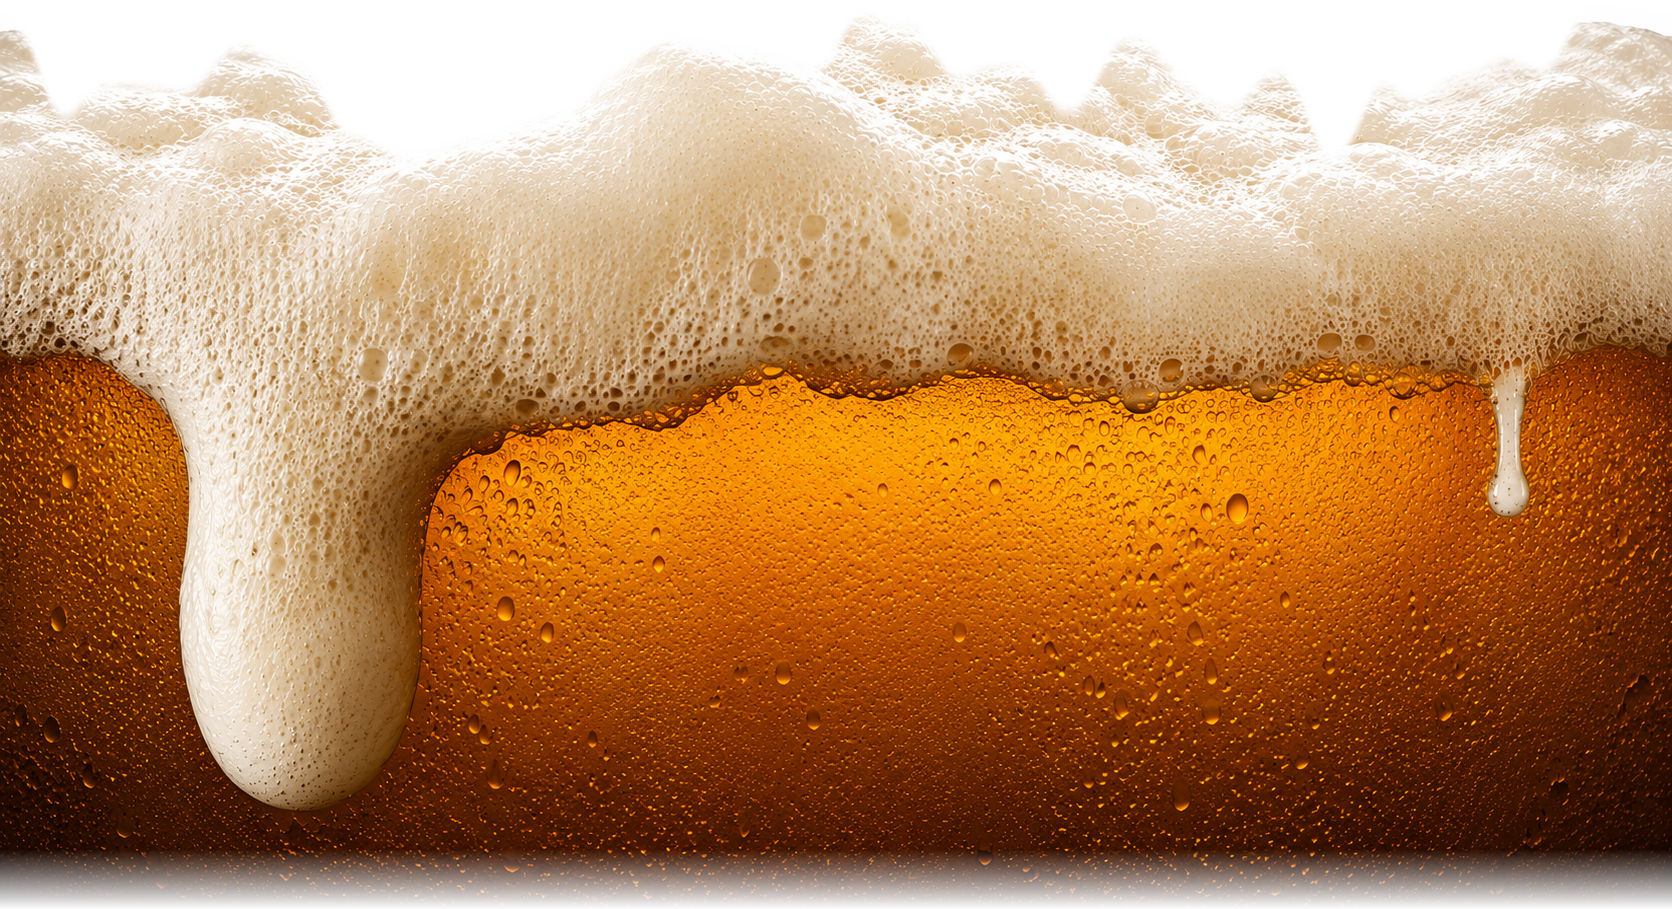
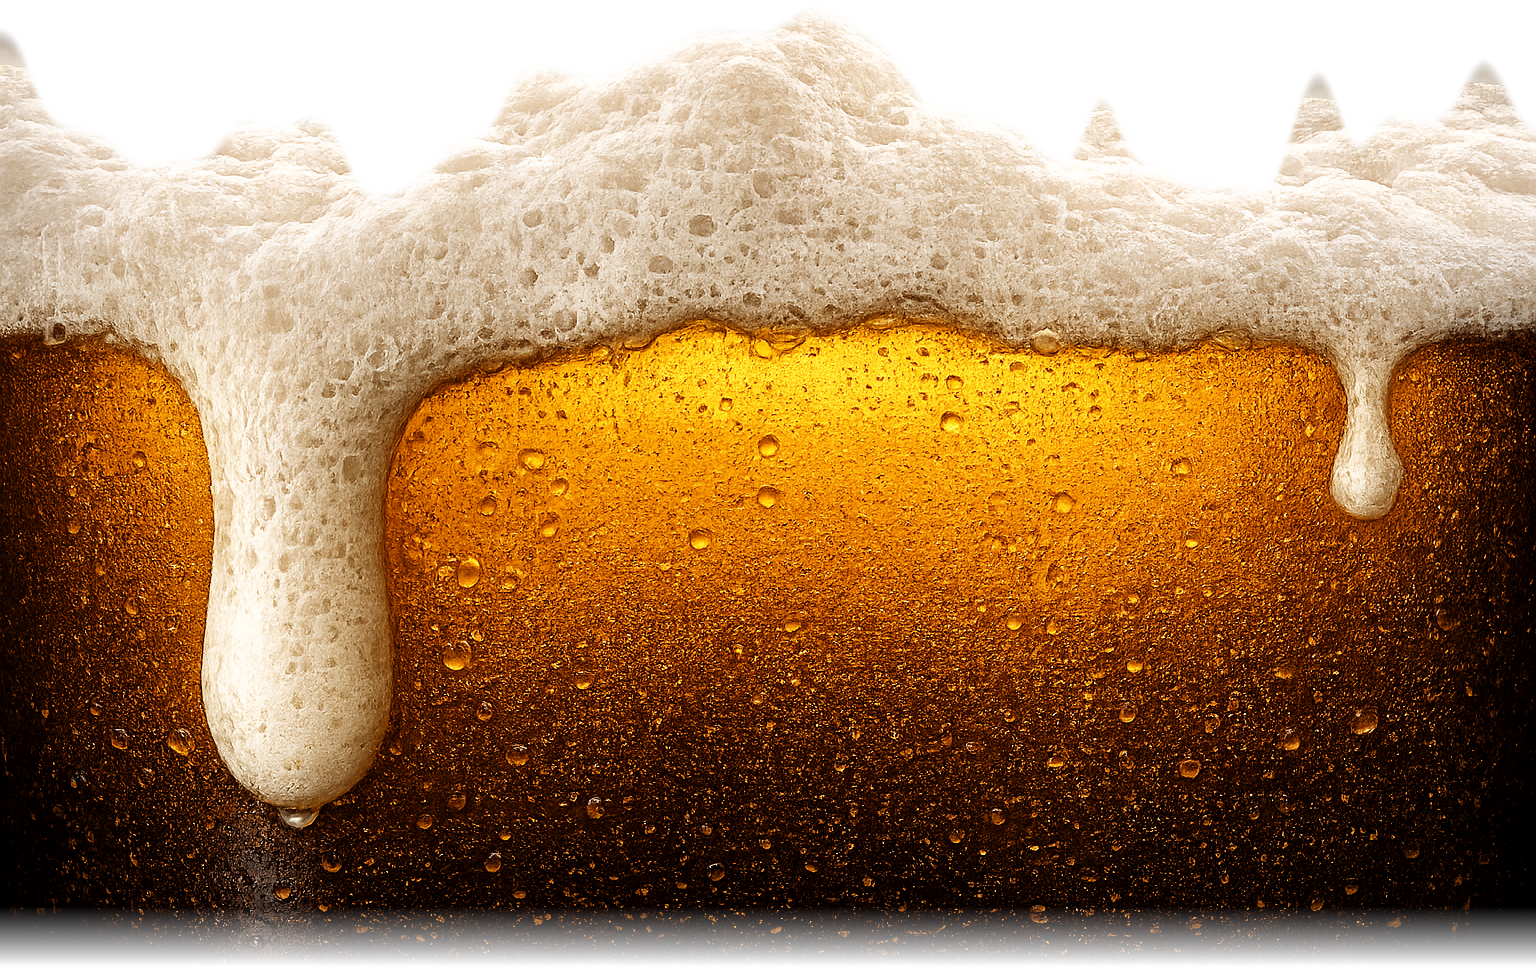
Footer: use dedicated Fótur Ölvis photos (landscape for desktop, portrait for mobile via <picture>); foam pours only slightly over the section above, visit info stays visible

diff --git a/styles.css b/styles.css
@@ -762,12 +762,14 @@ body.menu-open { overflow: hidden; }
 /* Footer — the beer photo IS the footer; text sits in the beer.
    The footer overlaps the section above with a transparent top, so the foam's
    natural contour pours slightly over the previous content with no hard seam.
-   Image is 1672x909 (height = 54.37vw at width:100%); foam crest reaches down
-   to 18.6% of the image, the foam/beer line to ~57%. */
+   Desktop image (footer-beer.png) is 1536x966: height = 62.89vw at width:100%,
+   foam crest reaches down to 21.6% of it, the foam/beer line to ~35%.
+   Mobile image (footer-beer-mobile.png, via <picture>) is 1024x1514: 147.85vw
+   tall, crest to 14.1%, beer line ~36%. */
 .site-footer {
   position: relative; z-index: 10; overflow: hidden; border-top: none;
-  margin-top: -11vw;
-  padding: 33vw 0 32px;
+  margin-top: -14.5vw;
+  padding: 25vw 0 32px;
   background: transparent;
   pointer-events: none;
 }
@@ -779,20 +781,21 @@ body.menu-open { overflow: hidden; }
 /* seamless dark continuation below the photo (matches its bottom-row colour) */
 .site-footer::before {
   content: ""; position: absolute; left: 0; right: 0;
-  top: 50.5vw; bottom: 0; z-index: -1;
+  top: 59vw; bottom: 0; z-index: -1;
   background: linear-gradient(180deg, #0a0401 0%, #070301 100%);
 }
 /* soft dark scrim over the lower beer so the text stays readable */
 .site-footer::after {
   content: ""; position: absolute; left: 0; right: 0; top: 0; bottom: 0; z-index: 1;
   pointer-events: none;
-  background: linear-gradient(180deg, rgba(22,11,2,0) 38%, rgba(22,11,2,0.45) 65%, rgba(18,9,2,0.8) 100%);
+  background: linear-gradient(180deg, rgba(22,11,2,0) 44%, rgba(22,11,2,0.5) 68%, rgba(18,9,2,0.85) 100%);
 }
 @media (max-width: 640px) {
-  /* zoom into the centre of the photo on narrow screens */
-  .footer-foam-photo { width: 165%; left: -32.5%; }
-  .site-footer { margin-top: -17vw; padding-top: 66vw; }
-  .site-footer::before { top: 83.5vw; }
+  .site-footer { margin-top: -21.5vw; padding-top: 56vw; }
+  .site-footer::before { top: 142vw; }
+  .site-footer::after {
+    background: linear-gradient(180deg, rgba(22,11,2,0) 19%, rgba(22,11,2,0.5) 42%, rgba(18,9,2,0.85) 100%);
+  }
 }
 .footer-bubbles {
   position: absolute; left: 0; right: 0; top: 0; bottom: 0; z-index: 1;

diff --git a/brugghus.html b/brugghus.html
@@ -74,7 +74,10 @@
   </main>
 
   <footer class="site-footer">
-    <img class="footer-foam-photo" src="assets/img/footer-beer.png" alt="" aria-hidden="true" decoding="async" />
+    <picture>
+      <source media="(max-width: 640px)" srcset="assets/img/footer-beer-mobile.png" />
+      <img class="footer-foam-photo" src="assets/img/footer-beer.png" alt="" aria-hidden="true" decoding="async" />
+    </picture>
     <div class="footer-bubbles" aria-hidden="true">
       <span style="left:6%; width:7px; height:7px; --rise:-160px; animation-duration:6.5s; animation-delay:0s;"></span>
       <span style="left:16%; width:5px; height:5px; --rise:-140px; animation-duration:5.2s; animation-delay:1.1s;"></span>

diff --git a/index.html b/index.html
@@ -138,7 +138,10 @@
   </main>
 
   <footer id="hafa-samband" class="site-footer">
-    <img class="footer-foam-photo" src="assets/img/footer-beer.png" alt="" aria-hidden="true" decoding="async" />
+    <picture>
+      <source media="(max-width: 640px)" srcset="assets/img/footer-beer-mobile.png" />
+      <img class="footer-foam-photo" src="assets/img/footer-beer.png" alt="" aria-hidden="true" decoding="async" />
+    </picture>
     <div class="footer-bubbles" aria-hidden="true">
       <span style="left:6%; width:7px; height:7px; --rise:-160px; animation-duration:6.5s; animation-delay:0s;"></span>
       <span style="left:16%; width:5px; height:5px; --rise:-140px; animation-duration:5.2s; animation-delay:1.1s;"></span>

diff --git a/panta.html b/panta.html
@@ -111,7 +111,10 @@
   </main>
 
   <footer class="site-footer">
-    <img class="footer-foam-photo" src="assets/img/footer-beer.png" alt="" aria-hidden="true" decoding="async" />
+    <picture>
+      <source media="(max-width: 640px)" srcset="assets/img/footer-beer-mobile.png" />
+      <img class="footer-foam-photo" src="assets/img/footer-beer.png" alt="" aria-hidden="true" decoding="async" />
+    </picture>
     <div class="footer-bubbles" aria-hidden="true">
       <span style="left:6%; width:7px; height:7px; --rise:-160px; animation-duration:6.5s; animation-delay:0s;"></span>
       <span style="left:16%; width:5px; height:5px; --rise:-140px; animation-duration:5.2s; animation-delay:1.1s;"></span>

diff --git a/sermerking.html b/sermerking.html
@@ -110,7 +110,10 @@
   </main>
 
   <footer id="hafa-samband" class="site-footer">
-    <img class="footer-foam-photo" src="assets/img/footer-beer.png" alt="" aria-hidden="true" decoding="async" />
+    <picture>
+      <source media="(max-width: 640px)" srcset="assets/img/footer-beer-mobile.png" />
+      <img class="footer-foam-photo" src="assets/img/footer-beer.png" alt="" aria-hidden="true" decoding="async" />
+    </picture>
     <div class="footer-bubbles" aria-hidden="true">
       <span style="left:6%; width:7px; height:7px; --rise:-160px; animation-duration:6.5s; animation-delay:0s;"></span>
       <span style="left:16%; width:5px; height:5px; --rise:-140px; animation-duration:5.2s; animation-delay:1.1s;"></span>

diff --git a/um-okkur.html b/um-okkur.html
@@ -63,7 +63,10 @@
   </main>
 
   <footer class="site-footer">
-    <img class="footer-foam-photo" src="assets/img/footer-beer.png" alt="" aria-hidden="true" decoding="async" />
+    <picture>
+      <source media="(max-width: 640px)" srcset="assets/img/footer-beer-mobile.png" />
+      <img class="footer-foam-photo" src="assets/img/footer-beer.png" alt="" aria-hidden="true" decoding="async" />
+    </picture>
     <div class="footer-bubbles" aria-hidden="true">
       <span style="left:6%; width:7px; height:7px; --rise:-160px; animation-duration:6.5s; animation-delay:0s;"></span>
       <span style="left:16%; width:5px; height:5px; --rise:-140px; animation-duration:5.2s; animation-delay:1.1s;"></span>